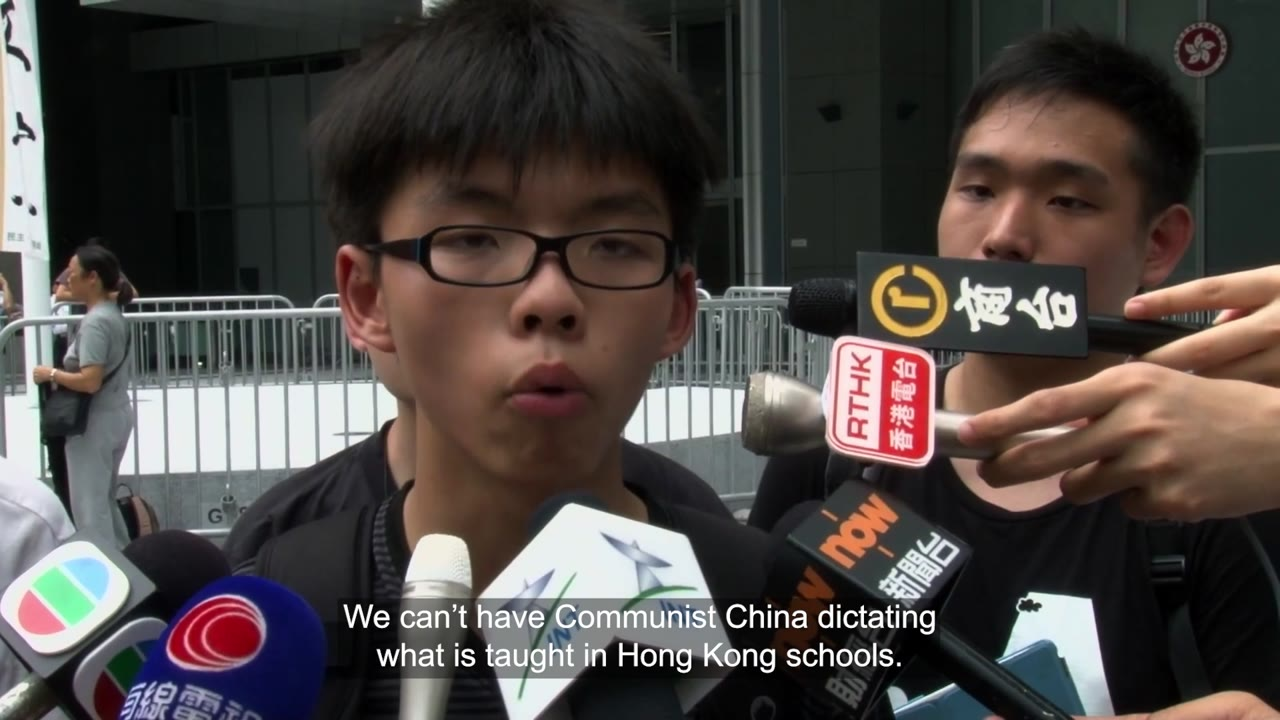
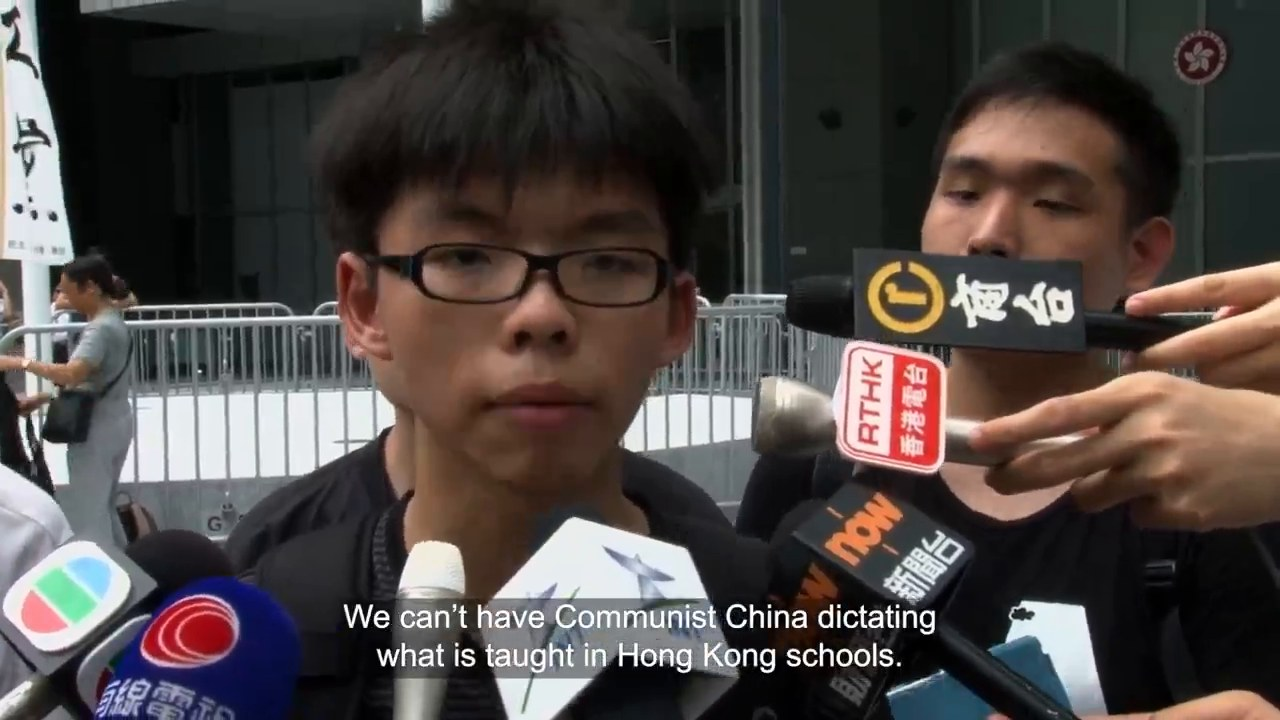
Film poster: new still where Joshua looks straight ahead; Pelosi card uses a still from the House floor
Claude-Session: https://claude.ai/code/session_01MmFPUvhE95qVANrbvdPVAE

diff --git a/film.html b/film.html
@@ -44,7 +44,7 @@
   <div class="wrap">
     <div class="film-card">
       <!-- FILM: self-hosted in media/ -->
-      <div class="screen vid"><video controls preload="none" playsinline poster="images/film-poster.jpg"><source src="media/joshua-prisoner-vs-superpower.mp4" type="video/mp4">Your browser can’t play this video.</video></div>
+      <div class="screen vid"><video controls preload="none" playsinline poster="images/film-poster.jpg?v=2"><source src="media/joshua-prisoner-vs-superpower.mp4" type="video/mp4">Your browser can’t play this video.</video></div>
       <div class="film-copy">
         <div class="label dim">Producer Andrew Duncan</div>
         <h3>Joshua: <span>Prisoner</span> vs. Superpower</h3>
@@ -77,8 +77,8 @@
         <div class="vc-img"><img src="images/commons-poster.jpg" alt="" loading="lazy"><span class="vc-play"></span></div>
         <div class="vc-k">House of Commons · 1 Sep 2026</div><h3>Duncan Smith and the Foreign Secretary</h3><p>The exchange at Foreign Office Questions, the day before Joshua’s plea.</p></a><a class="vcard has-cover" href="https://www.channel4.com/news/hong-kong-pro-democracy-activist-joshua-wong-pleads-guilty-to-colluding-with-foreign-entities" target="_blank" rel="noopener">
         <div class="vc-img"><img src="images/covers/c4-plea.jpg" alt="" loading="lazy"><span class="vc-play"></span><span class="vc-ext">Opens on their site</span></div>
-        <div class="vc-k">Channel 4 News · 2 Sep 2026</div><h3>Joshua pleads guilty</h3><p>Channel 4 News reports on the plea, with analysis on China and the UK.</p></a><a class="vcard has-cover" href="https://pelosi.house.gov/news/press-releases/pelosi-calls-joshua-wongs-freedom-house-floor-we-want-be-sure-they-know-we" target="_blank" rel="noopener">
-        <div class="vc-img"><img src="images/covers/pelosi-floor.jpg" alt="" loading="lazy"><span class="vc-play"></span><span class="vc-ext">Opens on their site</span></div>
+        <div class="vc-k">Channel 4 News · 2 Sep 2026</div><h3>Joshua pleads guilty</h3><p>Channel 4 News reports on the plea, with analysis on China and the UK.</p></a><a class="vcard" href="https://pelosi.house.gov/news/press-releases/pelosi-calls-joshua-wongs-freedom-house-floor-we-want-be-sure-they-know-we" target="_blank" rel="noopener">
+        <div class="vc-img"><img src="images/stills/pelosi-floor.jpg" alt="" loading="lazy"><span class="vc-play"></span><span class="vc-ext">Opens on their site</span></div>
         <div class="vc-k">US House of Representatives · 2 Sep 2026</div><h3>Pelosi on the House floor</h3><p>Speaker Emerita Nancy Pelosi calls for Joshua’s freedom.</p></a></div>
     </div>
 

diff --git a/index.html b/index.html
@@ -90,7 +90,7 @@
       <p>In 2017, <em>Teenager vs. Superpower</em> followed a schoolboy who took on Beijing. This short film tells what happened next.</p>
     </div>
     <div class="film-wide">
-      <div class="screen vid"><video controls preload="none" playsinline poster="images/film-poster.jpg"><source src="media/joshua-prisoner-vs-superpower.mp4" type="video/mp4">Your browser can’t play this video.</video></div>
+      <div class="screen vid"><video controls preload="none" playsinline poster="images/film-poster.jpg?v=2"><source src="media/joshua-prisoner-vs-superpower.mp4" type="video/mp4">Your browser can’t play this video.</video></div>
     </div>
   </div>
 </section>

diff --git a/tools/build.py b/tools/build.py
@@ -200,7 +200,7 @@ CTA = """<section class="cta-band">
 """
 
 # ---------------- HOME ----------------
-PLAYER = '''<div class="screen vid"><video controls preload="none" playsinline poster="images/film-poster.jpg"><source src="media/joshua-prisoner-vs-superpower.mp4" type="video/mp4">Your browser can’t play this video.</video></div>'''
+PLAYER = '''<div class="screen vid"><video controls preload="none" playsinline poster="images/film-poster.jpg?v=2"><source src="media/joshua-prisoner-vs-superpower.mp4" type="video/mp4">Your browser can’t play this video.</video></div>'''
 
 FLAGS = ["UK","US","Australia","Canada","France","Germany","Italy","Japan","Netherlands","New Zealand"]
 
@@ -457,7 +457,7 @@ def film():
   <div class="wrap">
     <div class="film-card">
       <!-- FILM: self-hosted in media/ -->
-      <div class="screen vid"><video controls preload="none" playsinline poster="images/film-poster.jpg"><source src="media/joshua-prisoner-vs-superpower.mp4" type="video/mp4">Your browser can’t play this video.</video></div>
+      <div class="screen vid"><video controls preload="none" playsinline poster="images/film-poster.jpg?v=2"><source src="media/joshua-prisoner-vs-superpower.mp4" type="video/mp4">Your browser can’t play this video.</video></div>
       <div class="film-copy">
         <div class="label dim">Producer Andrew Duncan</div>
         <h3>Joshua: <span>Prisoner</span> vs. Superpower</h3>
@@ -918,7 +918,7 @@ def tracker(h="Asked and answered"):
     </div>"""
 
 VIDEOS = [
-    ("film.html", "Film", "Joshua: Prisoner vs. Superpower", "The new short film, first shown in Parliament on 13 October 2026.", "images/film-poster.jpg", False),
+    ("film.html", "Film", "Joshua: Prisoner vs. Superpower", "The new short film, first shown in Parliament on 13 October 2026.", "images/film-poster.jpg?v=2", False),
     ("#exchange-nov", "House of Commons · 10 Nov 2026", "Emily Darlington MP", "Asks the Government to call for Joshua’s release, five days after his sentence.", "images/commons-2026-11-10-poster.jpg", False),
     ("#exchange-kearns", "House of Commons · 10 Nov 2026", "Alicia Kearns MP", "For the Opposition: Joshua and Jimmy Lai remain imprisoned for speaking out for democracy.", "images/commons-2026-11-10-kearns-poster.jpg", False),
     ("https://podcasts.apple.com/gb/podcast/today-in-focus/id1440133626?i=1000801652639", "The Guardian · Today in Focus · 13 Nov 2026", "Teen prodigy, Netflix star, prisoner", "Podcast: Nathan Law and journalist Danny Vincent on Joshua’s story and his new sentence.", "images/covers/guardian-podcast.jpg", True),
@@ -927,7 +927,7 @@ VIDEOS = [
     ("#exchange-tugendhat", "House of Commons · 10 Nov 2026", "Tom Tugendhat MP", "The Shadow Foreign Secretary names Joshua in the Commonwealth summit statement.", "images/commons-2026-11-10-tugendhat-poster.jpg", False),
     ("#exchange", "House of Commons · 1 Sep 2026", "Duncan Smith and the Foreign Secretary", "The exchange at Foreign Office Questions, the day before Joshua’s plea.", "images/commons-poster.jpg", False),
     ("https://www.channel4.com/news/hong-kong-pro-democracy-activist-joshua-wong-pleads-guilty-to-colluding-with-foreign-entities", "Channel 4 News · 2 Sep 2026", "Joshua pleads guilty", "Channel 4 News reports on the plea, with analysis on China and the UK.", "images/covers/c4-plea.jpg", True),
-    ("https://pelosi.house.gov/news/press-releases/pelosi-calls-joshua-wongs-freedom-house-floor-we-want-be-sure-they-know-we", "US House of Representatives · 2 Sep 2026", "Pelosi on the House floor", "Speaker Emerita Nancy Pelosi calls for Joshua’s freedom.", "images/covers/pelosi-floor.jpg", True),
+    ("https://pelosi.house.gov/news/press-releases/pelosi-calls-joshua-wongs-freedom-house-floor-we-want-be-sure-they-know-we", "US House of Representatives · 2 Sep 2026", "Pelosi on the House floor", "Speaker Emerita Nancy Pelosi calls for Joshua’s freedom.", "images/stills/pelosi-floor.jpg", True),
 ]
 
 def video_cards(skip_film=False):
